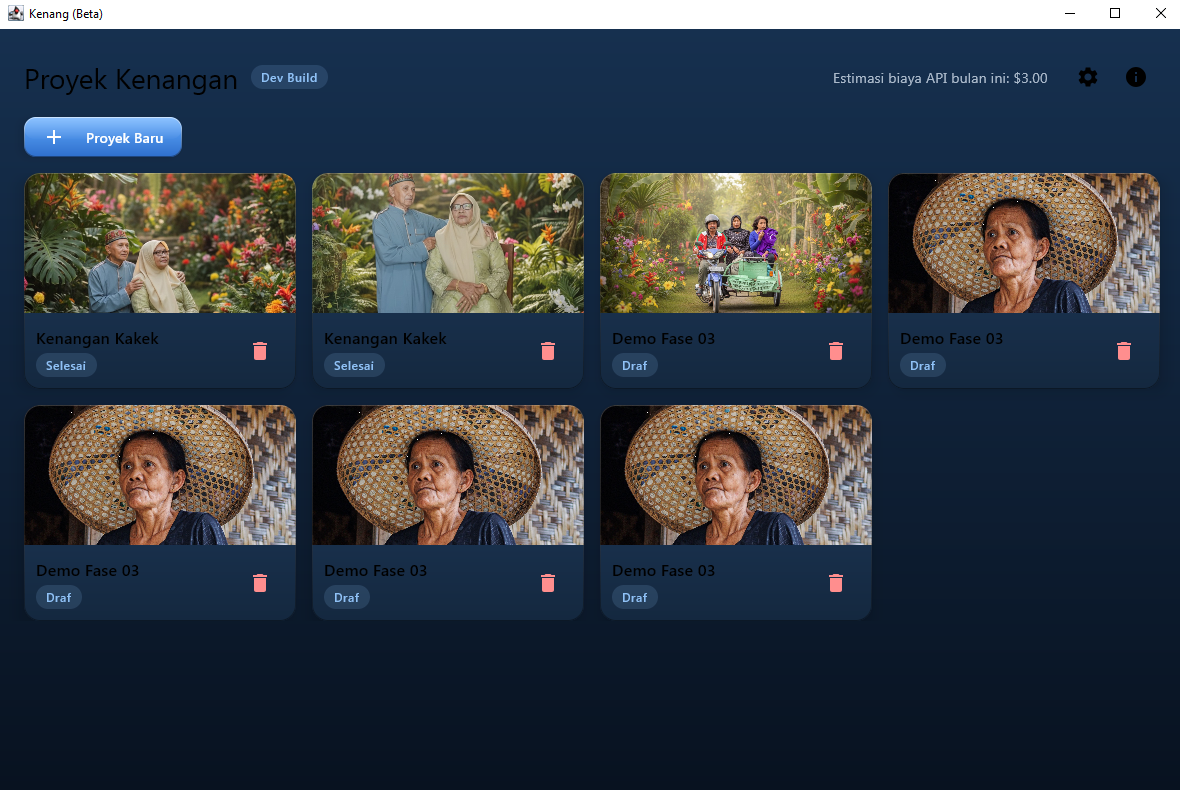
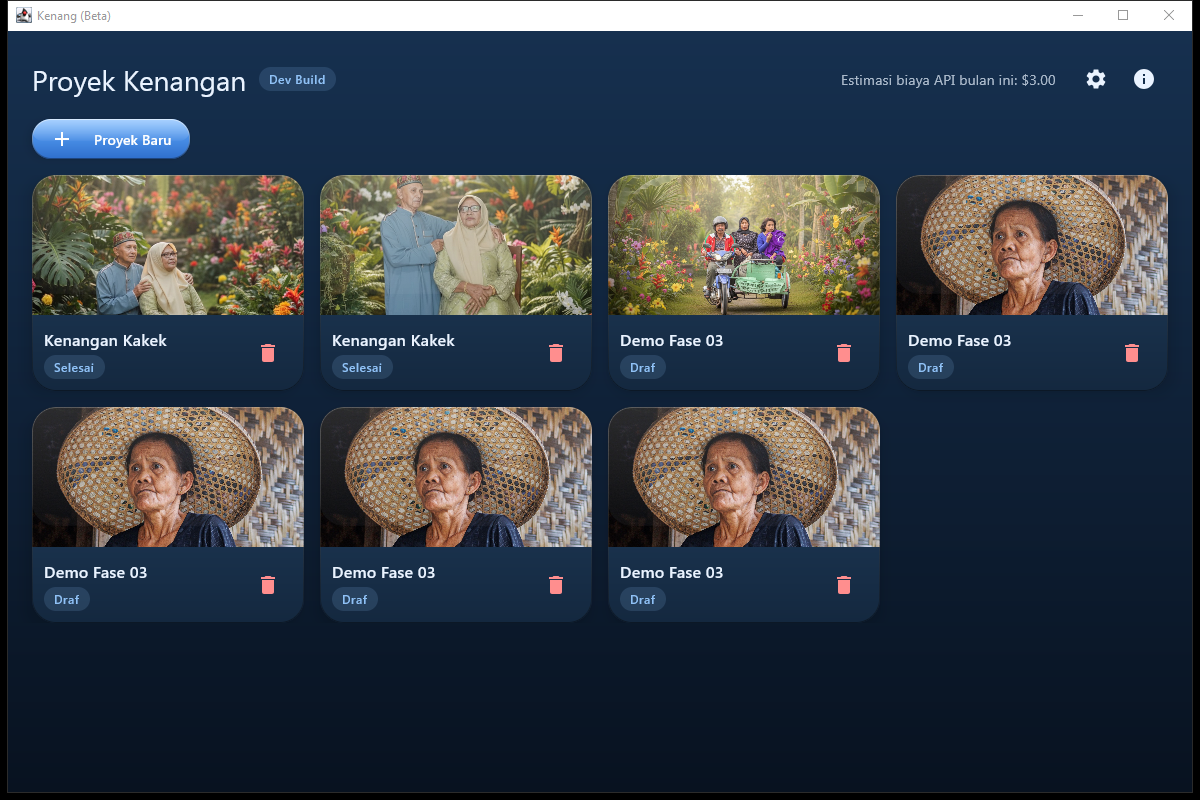
fix: bright text on transparent Scaffold; thicker gloss, rounder corners
Transparent Scaffold container has no contentColorFor mapping, so default
Text/Icon fell back to black (owner report). Set contentColor=onBackground
and force bright LocalContentColor inside SkeuoCard. Gloss strength
0.28->0.45 on buttons + subtle glass on cards; corners 12->19dp (controls),
16->24dp (cards), Material shapes bumped to match.

diff --git a/app/src/main/kotlin/id/kenang/app/ui/theme/Skeuo.kt b/app/src/main/kotlin/id/kenang/app/ui/theme/Skeuo.kt
@@ -58,15 +58,21 @@ fun SkeuoCard(
     modifier: Modifier = Modifier,
     content: @Composable ColumnScope.() -> Unit,
 ) {
-    val shape = RoundedCornerShape(16.dp)
+    val shape = RoundedCornerShape(24.dp)
     Column(
         modifier
             .shadow(10.dp, shape, spotColor = Color.Black.copy(alpha = 0.55f))
             .clip(shape)
-            .background(Brush.verticalGradient(listOf(Color(0xFF203C60), Color(0xFF14283F))))
-            .border(1.dp, bevelBrush(0.20f), shape),
-        content = content,
-    )
+            .background(Brush.verticalGradient(listOf(Color(0xFF224162), Color(0xFF14283F))))
+            .glossOverlay(visible = true, cornerRadiusDp = 24, strength = 0.16f)
+            .border(1.dp, bevelBrush(0.22f), shape),
+    ) {
+        // Panels sit on the gradient backdrop; force bright content so no
+        // default black Text/Icon can slip through (owner report 2026-08-26).
+        CompositionLocalProvider(LocalContentColor provides KenangPalette.textBright) {
+            content()
+        }
+    }
 }
 
 /** Primary glossy blue button — raised; sinks + darkens when pressed. */
@@ -144,7 +150,7 @@ private fun SkeuoControl(
     inset: Boolean = false,
     content: @Composable RowScope.() -> Unit,
 ) {
-    val shape = RoundedCornerShape(12.dp)
+    val shape = RoundedCornerShape(19.dp)
     Row(
         modifier
             .shadow(
@@ -154,7 +160,7 @@ private fun SkeuoControl(
             )
             .clip(shape)
             .background(Brush.verticalGradient(fill))
-            .glossOverlay(visible = gloss && !pressed)
+            .glossOverlay(visible = gloss && !pressed, cornerRadiusDp = 19, strength = 0.45f)
             .border(
                 1.dp,
                 if (inset) insetBrush(edgeAlpha) else bevelBrush(edgeAlpha),
@@ -187,12 +193,16 @@ private fun insetBrush(alpha: Float) = Brush.verticalGradient(
     listOf(Color.Black.copy(alpha = 0.45f), Color.White.copy(alpha = alpha)),
 )
 
-/** Glass highlight across the upper half of a control. */
-private fun Modifier.glossOverlay(visible: Boolean): Modifier =
+/** Glass highlight across the upper half of a control/panel. */
+private fun Modifier.glossOverlay(
+    visible: Boolean,
+    cornerRadiusDp: Int = 19,
+    strength: Float = 0.45f,
+): Modifier =
     if (!visible) this else drawWithCache {
         val brush = Brush.verticalGradient(
-            0f to Color.White.copy(alpha = 0.28f),
-            1f to Color.White.copy(alpha = 0.02f),
+            0f to Color.White.copy(alpha = strength),
+            1f to Color.White.copy(alpha = 0.04f),
             endY = size.height * 0.55f,
         )
         onDrawWithContent {
@@ -200,7 +210,7 @@ private fun Modifier.glossOverlay(visible: Boolean): Modifier =
             drawRoundRect(
                 brush = brush,
                 size = Size(size.width, size.height * 0.55f),
-                cornerRadius = CornerRadius(12.dp.toPx(), 12.dp.toPx()),
+                cornerRadius = CornerRadius(cornerRadiusDp.dp.toPx(), cornerRadiusDp.dp.toPx()),
             )
         }
     }

diff --git a/app/src/main/kotlin/id/kenang/app/ui/App.kt b/app/src/main/kotlin/id/kenang/app/ui/App.kt
@@ -95,6 +95,9 @@ fun App() {
         id.kenang.app.ui.theme.SkeuoBackground {
         Scaffold(
             containerColor = androidx.compose.ui.graphics.Color.Transparent,
+            // Transparent container has no contentColorFor mapping — without an
+            // explicit contentColor every default Text/Icon falls back to black.
+            contentColor = androidx.compose.material3.MaterialTheme.colorScheme.onBackground,
             snackbarHost = { SnackbarHost(snackbar) },
         ) { padding ->
             Column(Modifier.fillMaxSize()) {

diff --git a/app/src/main/kotlin/id/kenang/app/ui/theme/Theme.kt b/app/src/main/kotlin/id/kenang/app/ui/theme/Theme.kt
@@ -56,11 +56,11 @@ private val BlueColors = darkColorScheme(
 )
 
 private val KenangShapes = Shapes(
-    extraSmall = RoundedCornerShape(6.dp),
-    small = RoundedCornerShape(10.dp),
-    medium = RoundedCornerShape(14.dp),
-    large = RoundedCornerShape(20.dp),
-    extraLarge = RoundedCornerShape(28.dp),
+    extraSmall = RoundedCornerShape(8.dp),
+    small = RoundedCornerShape(12.dp),
+    medium = RoundedCornerShape(18.dp),
+    large = RoundedCornerShape(26.dp),
+    extraLarge = RoundedCornerShape(32.dp),
 )
 
 @Composable
